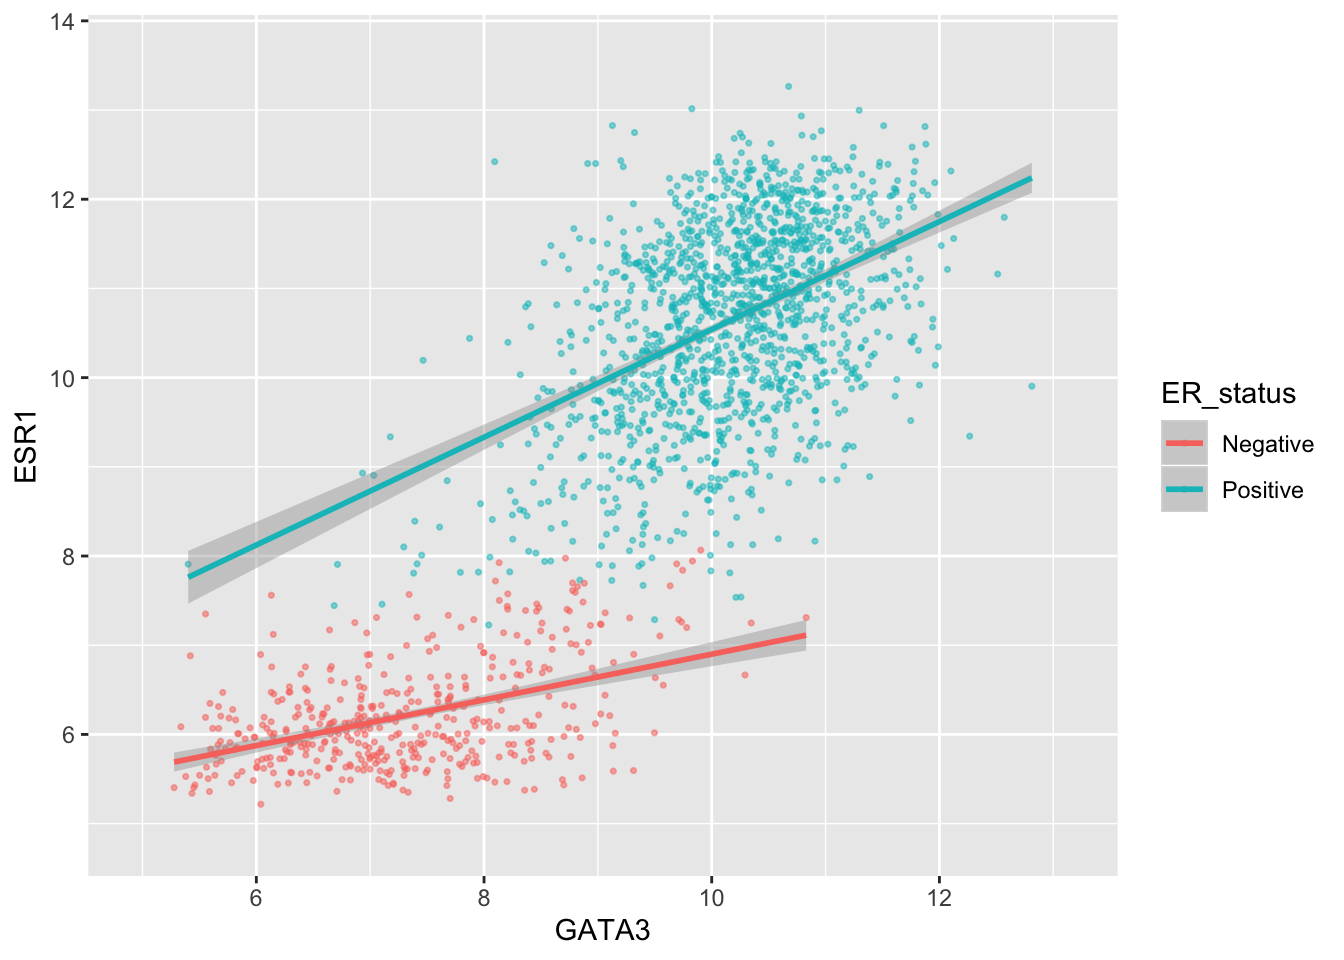
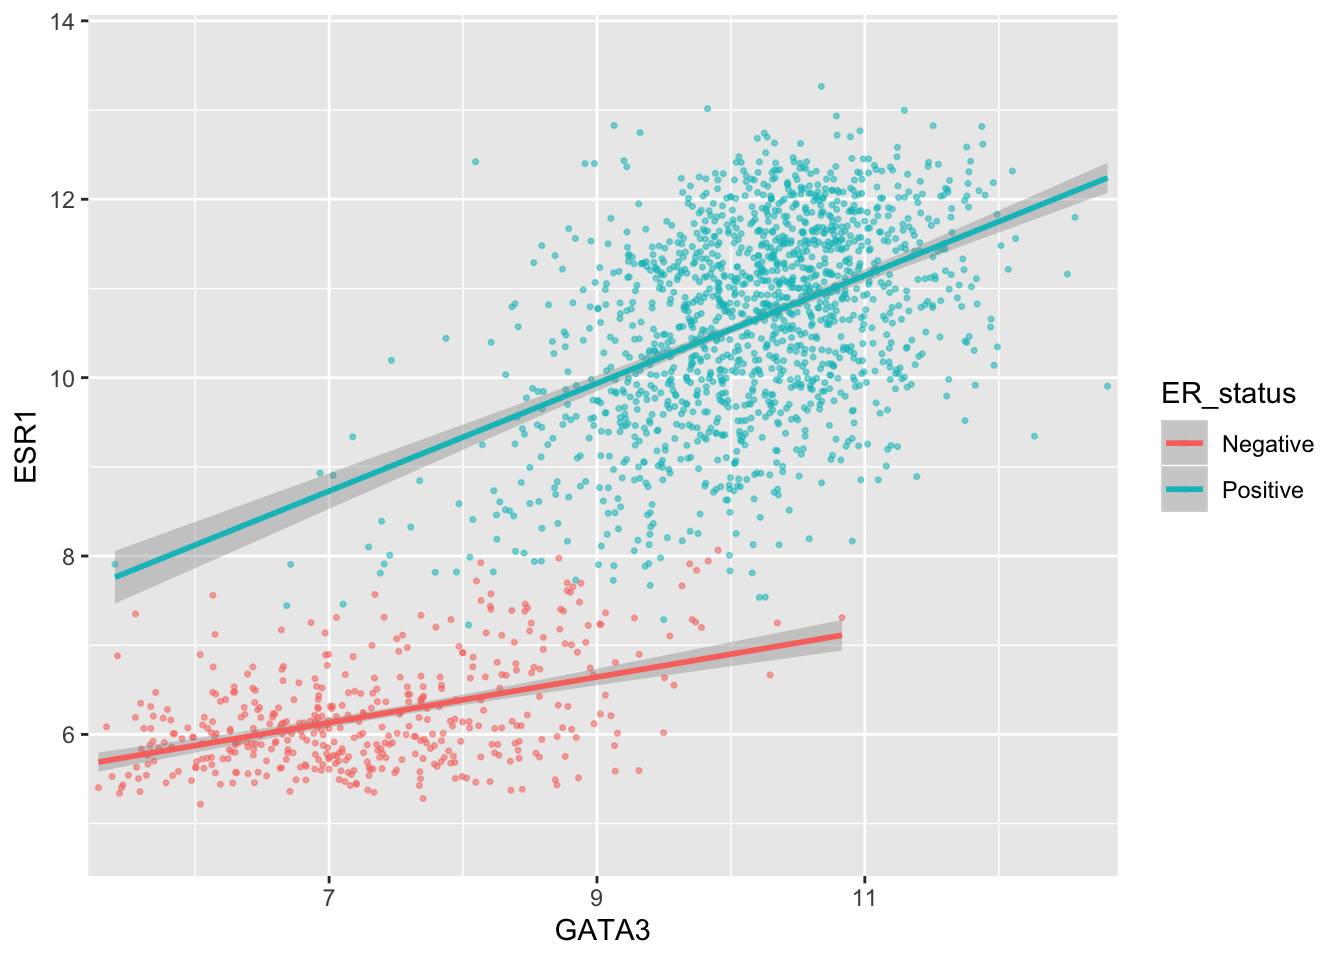
Fixed typo and change colours for some plots.

diff --git a/docs/week5.html b/docs/week5.html
@@ -1067,7 +1067,7 @@ plot</code></pre>
 <p>The x and y variables are continuous hence ggplot2 adds a continuous scale for each. Colour is a discrete variable in this case so ggplot2 adds a discrete scale for colour.</p>
 <p>Generalizing, the scales that are required follow the naming scheme:</p>
 <pre><code>scale_&lt;NAME_OF_AESTHETIC&gt;_&lt;NAME_OF_SCALE&gt;</code></pre>
-<p>Look at the help page for <code>scale_y_continuous</code> so see what we can change about the y axis scale.</p>
+<p>Look at the help page for <code>scale_y_continuous</code> to see what we can change about the y-axis scale.</p>
 <p>First, we’ll change the breaks, i.e. where ggplot2 puts ticks and numeric labels, on the y axis.</p>
 <pre class="r"><code>ggplot(data = metabric, mapping = aes(x = GATA3, y = ESR1, colour = ER_status)) +
   geom_point(size = 0.6, alpha = 0.5) +
@@ -1109,13 +1109,14 @@ plot</code></pre>
   scale_y_continuous(breaks = seq(4, 14, by = 2), limits = c(4, 14)) +
   theme(panel.grid = element_blank())</code></pre>
 <p><img src="week5_files/figure-html/scatter_plot_7-1.png" width="672" /></p>
-<p>By default the scales are expanded by 5% of the range on either side. We can add more space, e.g. 10% (0.1), as follows.</p>
+<p>By default the scales are expanded by 5% of the range on either side. We can add or reduce the space as follows.</p>
 <pre class="r"><code>ggplot(data = metabric, mapping = aes(x = GATA3, y = ESR1, colour = ER_status)) +
   geom_point(size = 0.6, alpha = 0.5) +
   geom_smooth(method = &quot;lm&quot;) +
-  scale_x_continuous(expand = expand_scale(mult = 0.1)) +
+  scale_x_continuous(expand = expand_scale(mult = 0.01)) +
   scale_y_continuous(expand = expand_scale(mult = 0.1))</code></pre>
 <p><img src="week5_files/figure-html/scatter_plot_8-1.png" width="672" /></p>
+<p>Here we only added 1% (0.01) of the range of GATA3 expression values on either side along the x axis but we added 10% (0.1) of the range of ESR1 expression on either side along the y axis.</p>
 <p>We can move draw the axis on the other side of the plot –- not sure why you’d want to do this but with ggplot2 just about anything is possible.</p>
 <pre class="r"><code>ggplot(data = metabric, mapping = aes(x = GATA3, y = ESR1, colour = ER_status)) +
   geom_point(size = 0.6, alpha = 0.5) +
@@ -1129,7 +1130,7 @@ plot</code></pre>
 <pre class="r"><code>ggplot(data = metabric, mapping = aes(x = GATA3, y = ESR1, colour = ER_status)) +
   geom_point(size = 0.6, alpha = 0.5) +
   geom_smooth(method = &quot;lm&quot;) +
-  scale_colour_manual(values = c(&quot;green&quot;, &quot;orange&quot;))</code></pre>
+  scale_colour_manual(values = c(&quot;dodgerblue2&quot;, &quot;firebrick2&quot;))</code></pre>
 <p><img src="week5_files/figure-html/scatter_plot_10-1.png" width="672" /></p>
 <p>Setting colours manually when we only have a two or three categories but when we have a larger number it would be handy to be able to choose from a selection of carefully-constructed colour palettes. Helpfully, ggplot2 provides access to the <a href="http://colorbrewer2.org">ColorBrewer</a> palettes through the functions <code>scale_colour_brewer()</code> and <code>scale_fill_brewer()</code>.</p>
 <pre class="r"><code>ggplot(data = metabric, mapping = aes(x = GATA3, y = ESR1, colour = `3-gene_classifier`)) +
@@ -1141,11 +1142,11 @@ plot</code></pre>
 <pre class="r"><code>ggplot(data = metabric, mapping = aes(x = GATA3, y = ESR1, colour = ER_status)) +
   geom_point(size = 0.6, alpha = 0.5) +
   geom_smooth(method = &quot;lm&quot;) +
-  scale_colour_manual(values = c(&quot;green&quot;, &quot;orange&quot;), labels = c(&quot;ER-negative&quot;, &quot;ER-positive&quot;)) +
+  scale_colour_manual(values = c(&quot;dodgerblue2&quot;, &quot;firebrick2&quot;), labels = c(&quot;ER-negative&quot;, &quot;ER-positive&quot;)) +
   labs(colour = NULL)  # remove legend title for colour now that the labels are self-explanatory</code></pre>
 <p><img src="week5_files/figure-html/scatter_plot_12-1.png" width="672" /></p>
 <p>What we have done here is to set our own set of mappings from levels in the data to aesthetic values.</p>
-<p>For continuous variables we need to be able to set colours used in the colour gradient. To demonstrate this we’ll correct the Nottingham prognostic index (NPI) values and use this to colour points in the scatter plot of ESR1 vs GATA3 expression on a continuous scale.</p>
+<p>For continuous variables we may wish to be able to change the colours used in the colour gradient. To demonstrate this we’ll correct the Nottingham prognostic index (NPI) values and use this to colour points in the scatter plot of ESR1 vs GATA3 expression on a continuous scale.</p>
 <pre class="r"><code># Nottingham_prognostic_index is incorrectly calculated in the data downloaded from cBioPortal
 metabric &lt;- mutate(metabric, Nottingham_prognostic_index = 0.02 * Tumour_size + Lymph_node_status + Neoplasm_histologic_grade)
 #
@@ -1158,15 +1159,15 @@ metabric %&gt;%
 <pre class="r"><code>metabric %&gt;%
   filter(!is.na(Nottingham_prognostic_index)) %&gt;%
   ggplot(mapping = aes(x = GATA3, y = ESR1, colour = Nottingham_prognostic_index)) +
-  geom_point(size = 0.5) +
-  scale_colour_gradient(low = &quot;yellow&quot;, high = &quot;red&quot;)</code></pre>
+  geom_point(size = 0.75) +
+  scale_colour_gradient(low = &quot;white&quot;, high = &quot;firebrick2&quot;)</code></pre>
 <p><img src="week5_files/figure-html/scatter_plot_14-1.png" width="672" /></p>
 <p>In some cases it might make sense to specify two colour gradients either side of a mid-point.</p>
 <pre class="r"><code>metabric %&gt;%
   filter(!is.na(Nottingham_prognostic_index)) %&gt;%
   ggplot(mapping = aes(x = GATA3, y = ESR1, colour = Nottingham_prognostic_index)) +
-  geom_point(size = 0.5) +
-  scale_colour_gradient2(low = &quot;blue&quot;, mid = &quot;grey80&quot;, high = &quot;red&quot;, midpoint = 4.5)</code></pre>
+  geom_point(size = 0.75) +
+  scale_colour_gradient2(low = &quot;dodgerblue1&quot;, mid = &quot;grey90&quot;, high = &quot;firebrick1&quot;, midpoint = 4.5)</code></pre>
 <p><img src="week5_files/figure-html/scatter_plot_15-1.png" width="672" /></p>
 <p>As before we can override the default labels and other aspects of the colour scale within the scale function.</p>
 <pre class="r"><code>metabric %&gt;%
